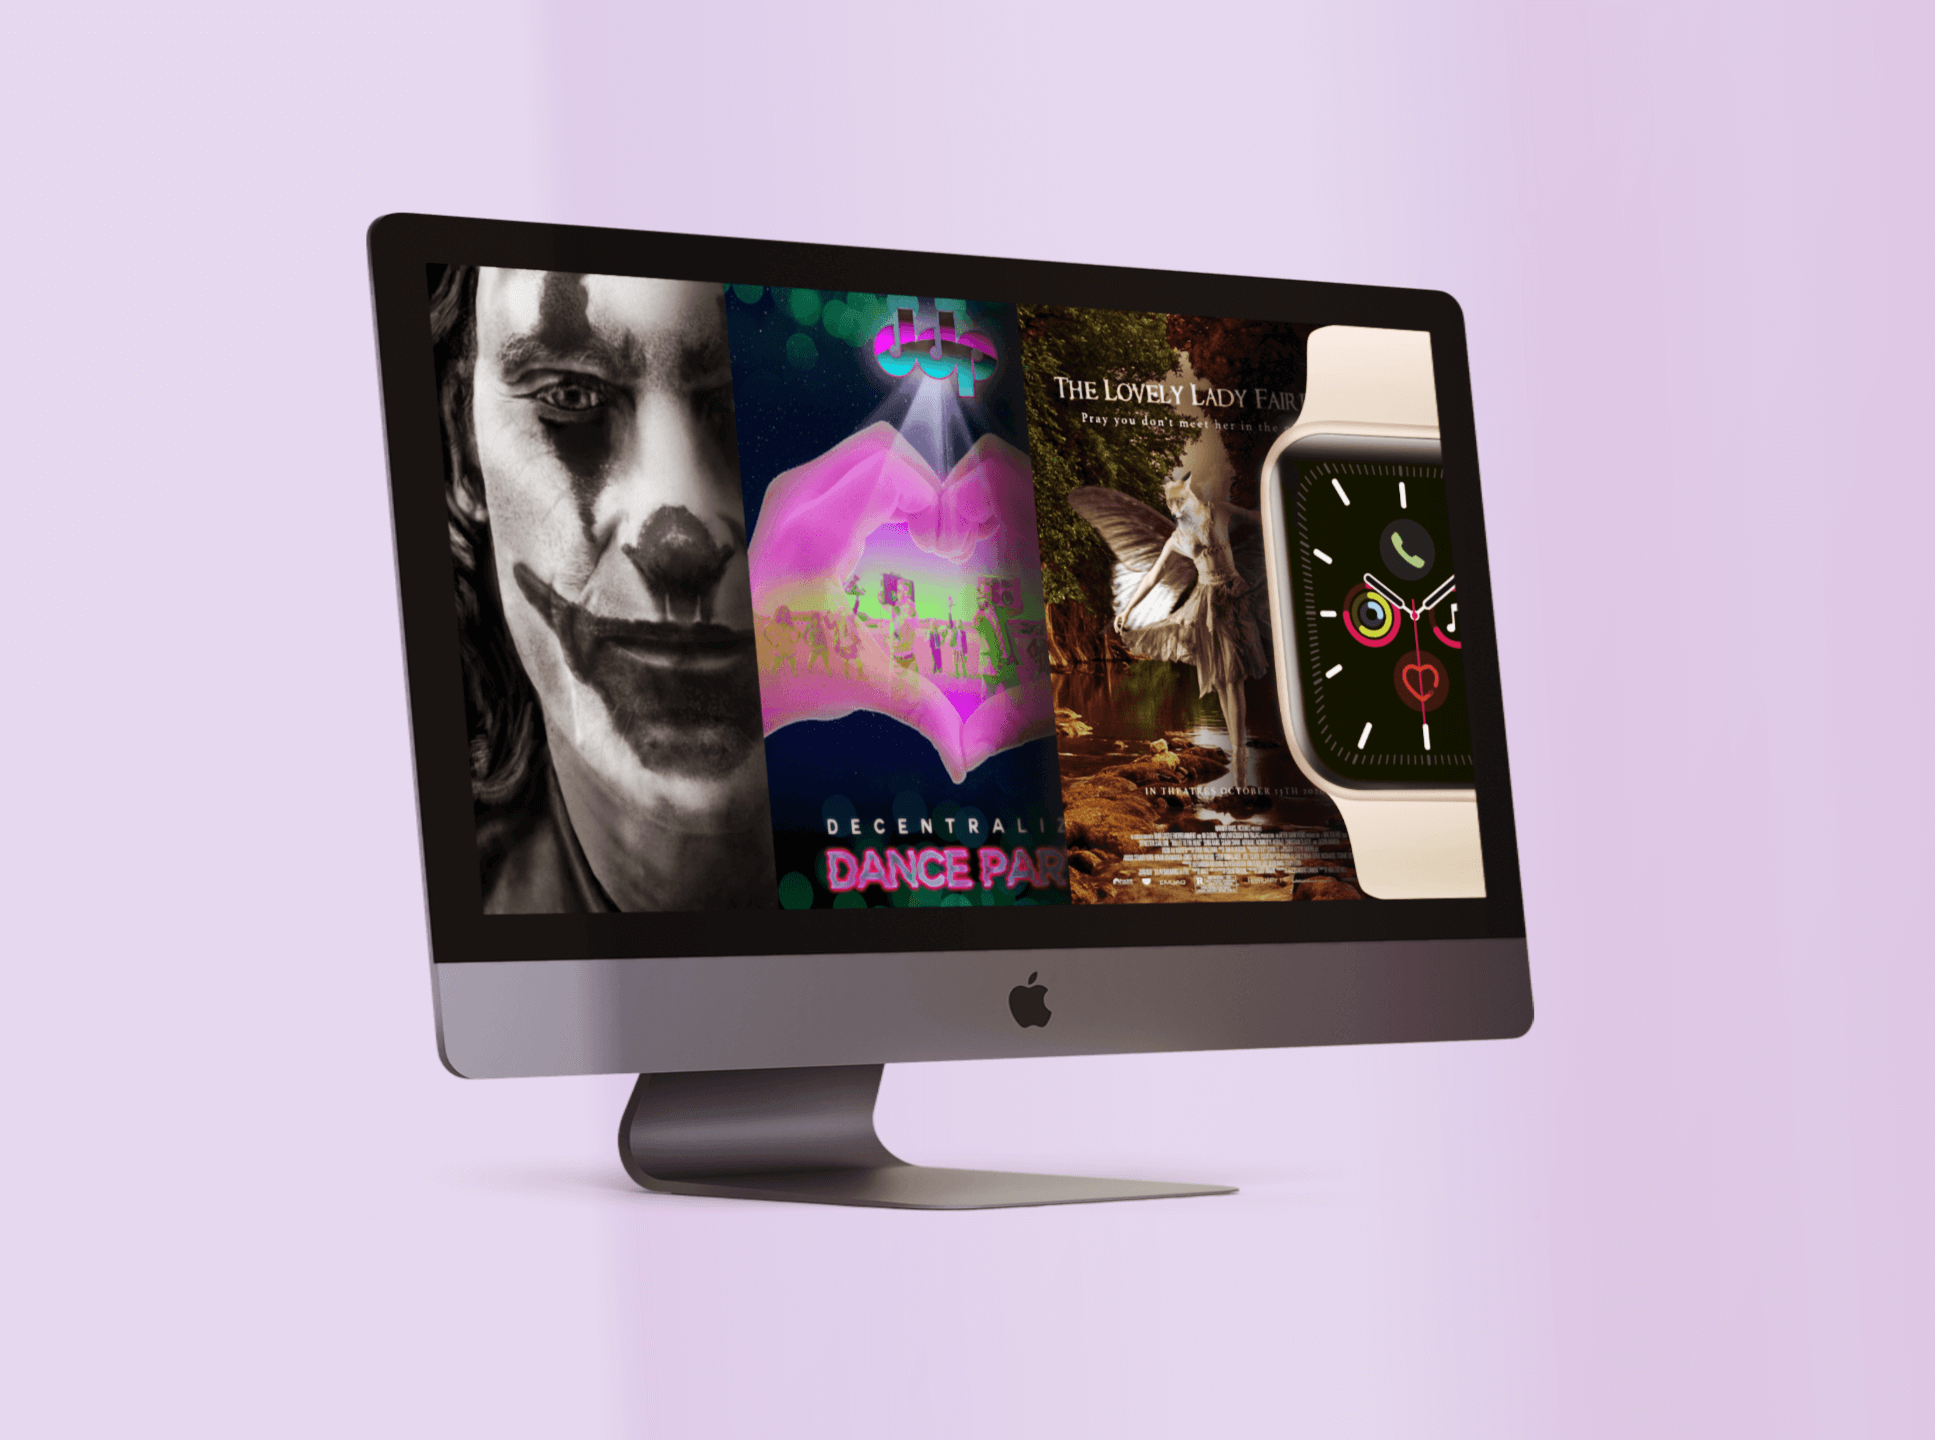
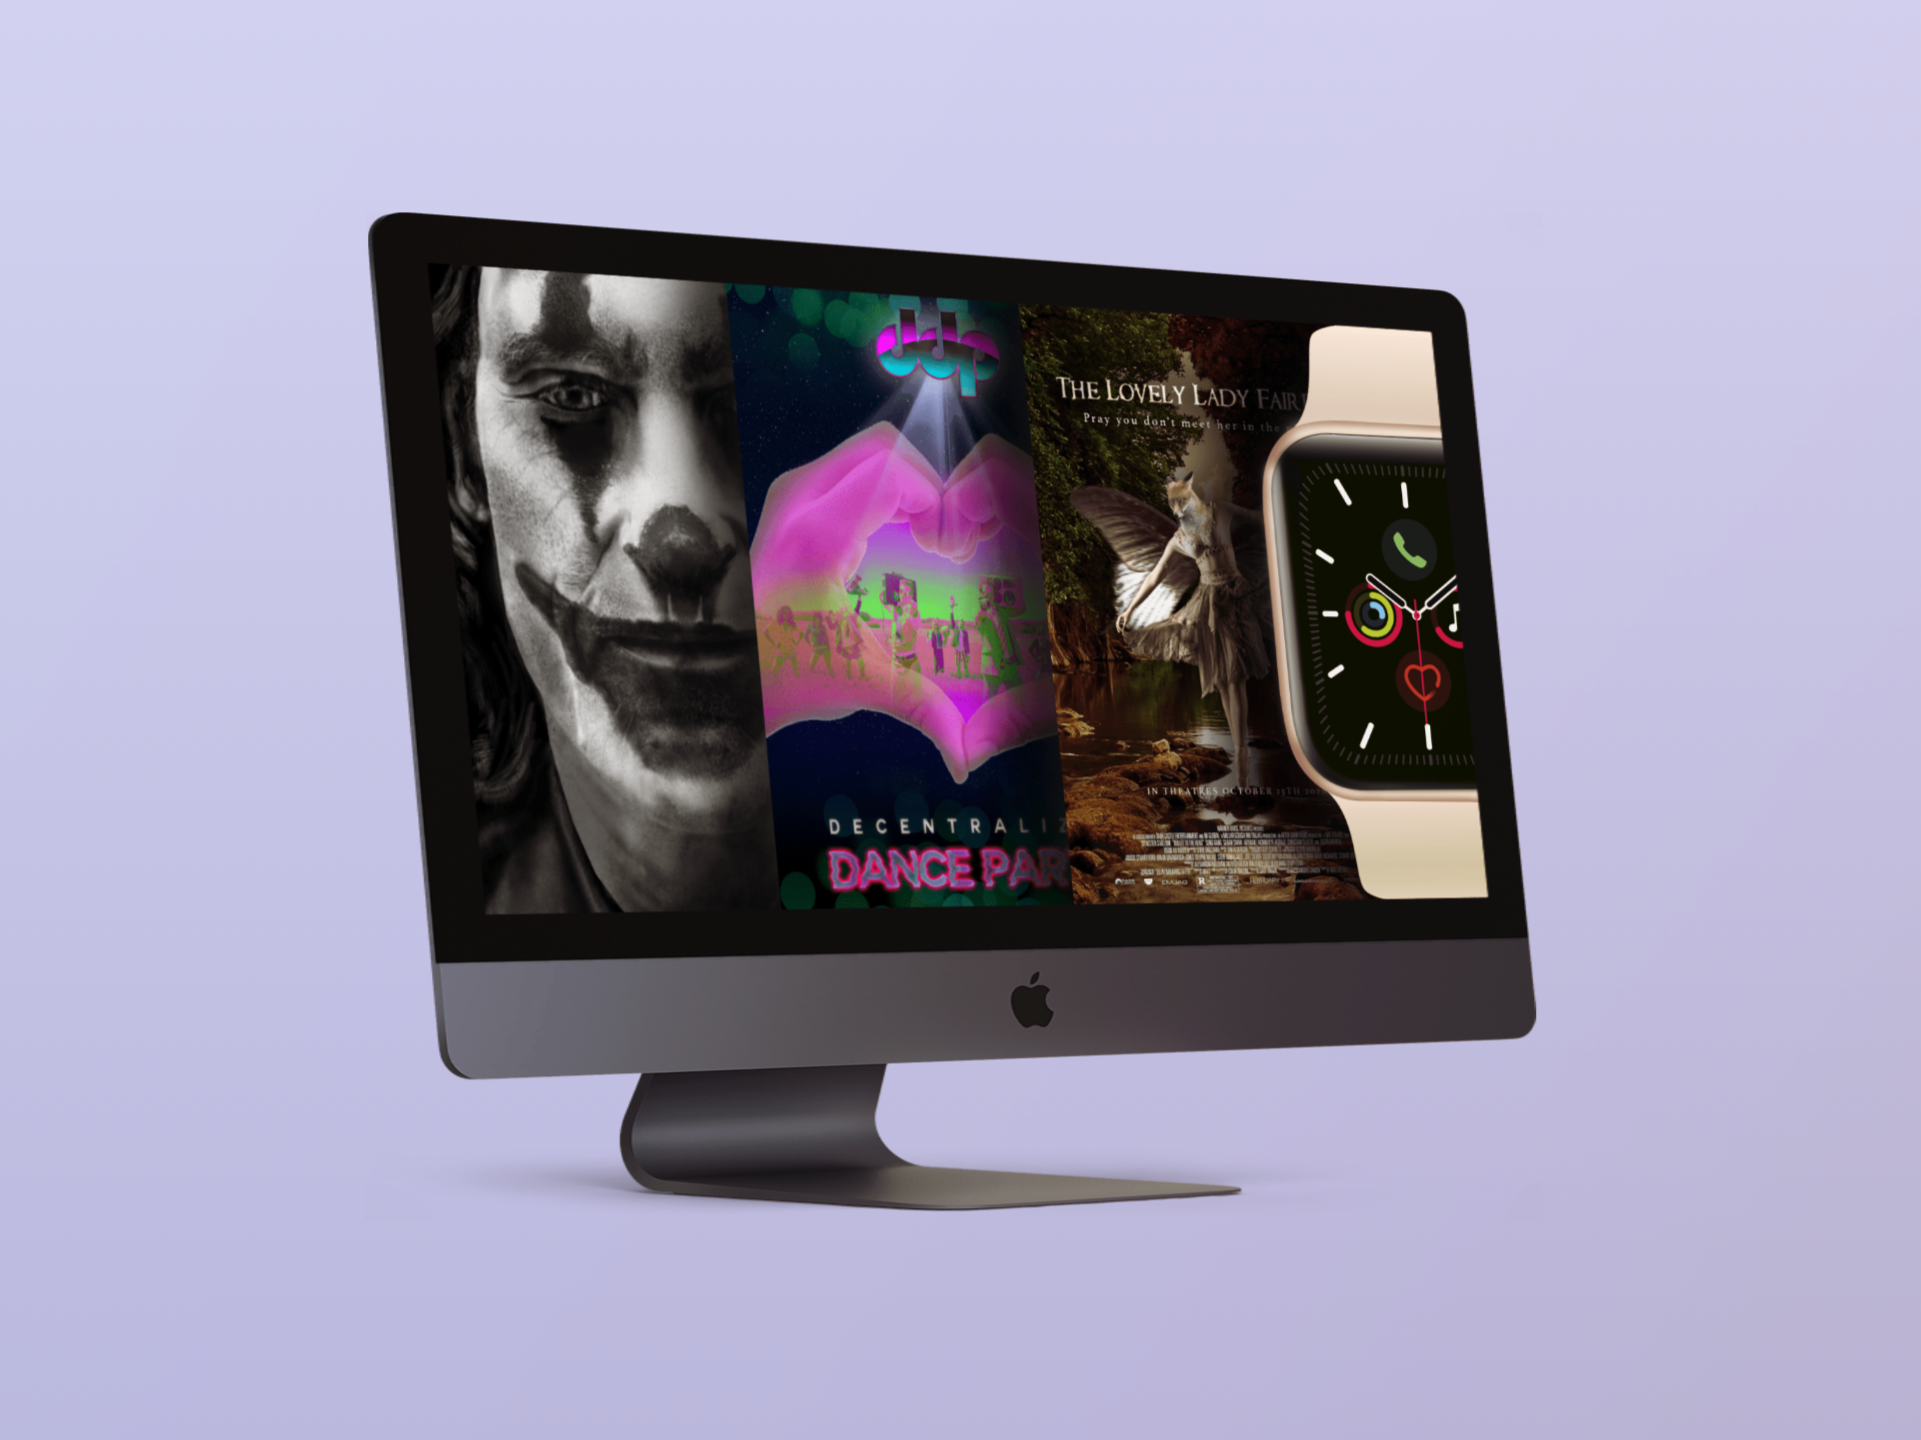
changed images for compressed versions

diff --git a/pages/Projects/index.js b/pages/Projects/index.js
@@ -27,7 +27,7 @@ const Projects = () => {
               </div>
               <div>
                 <MajorImgs
-                  src="/CA-cover.png"
+                  src="/CA-cover2.png"
                   href="/CommAid"
                   projectDesc="UX/UI & React Web Application Volunteer web app"
                   projectType="CommAid"
